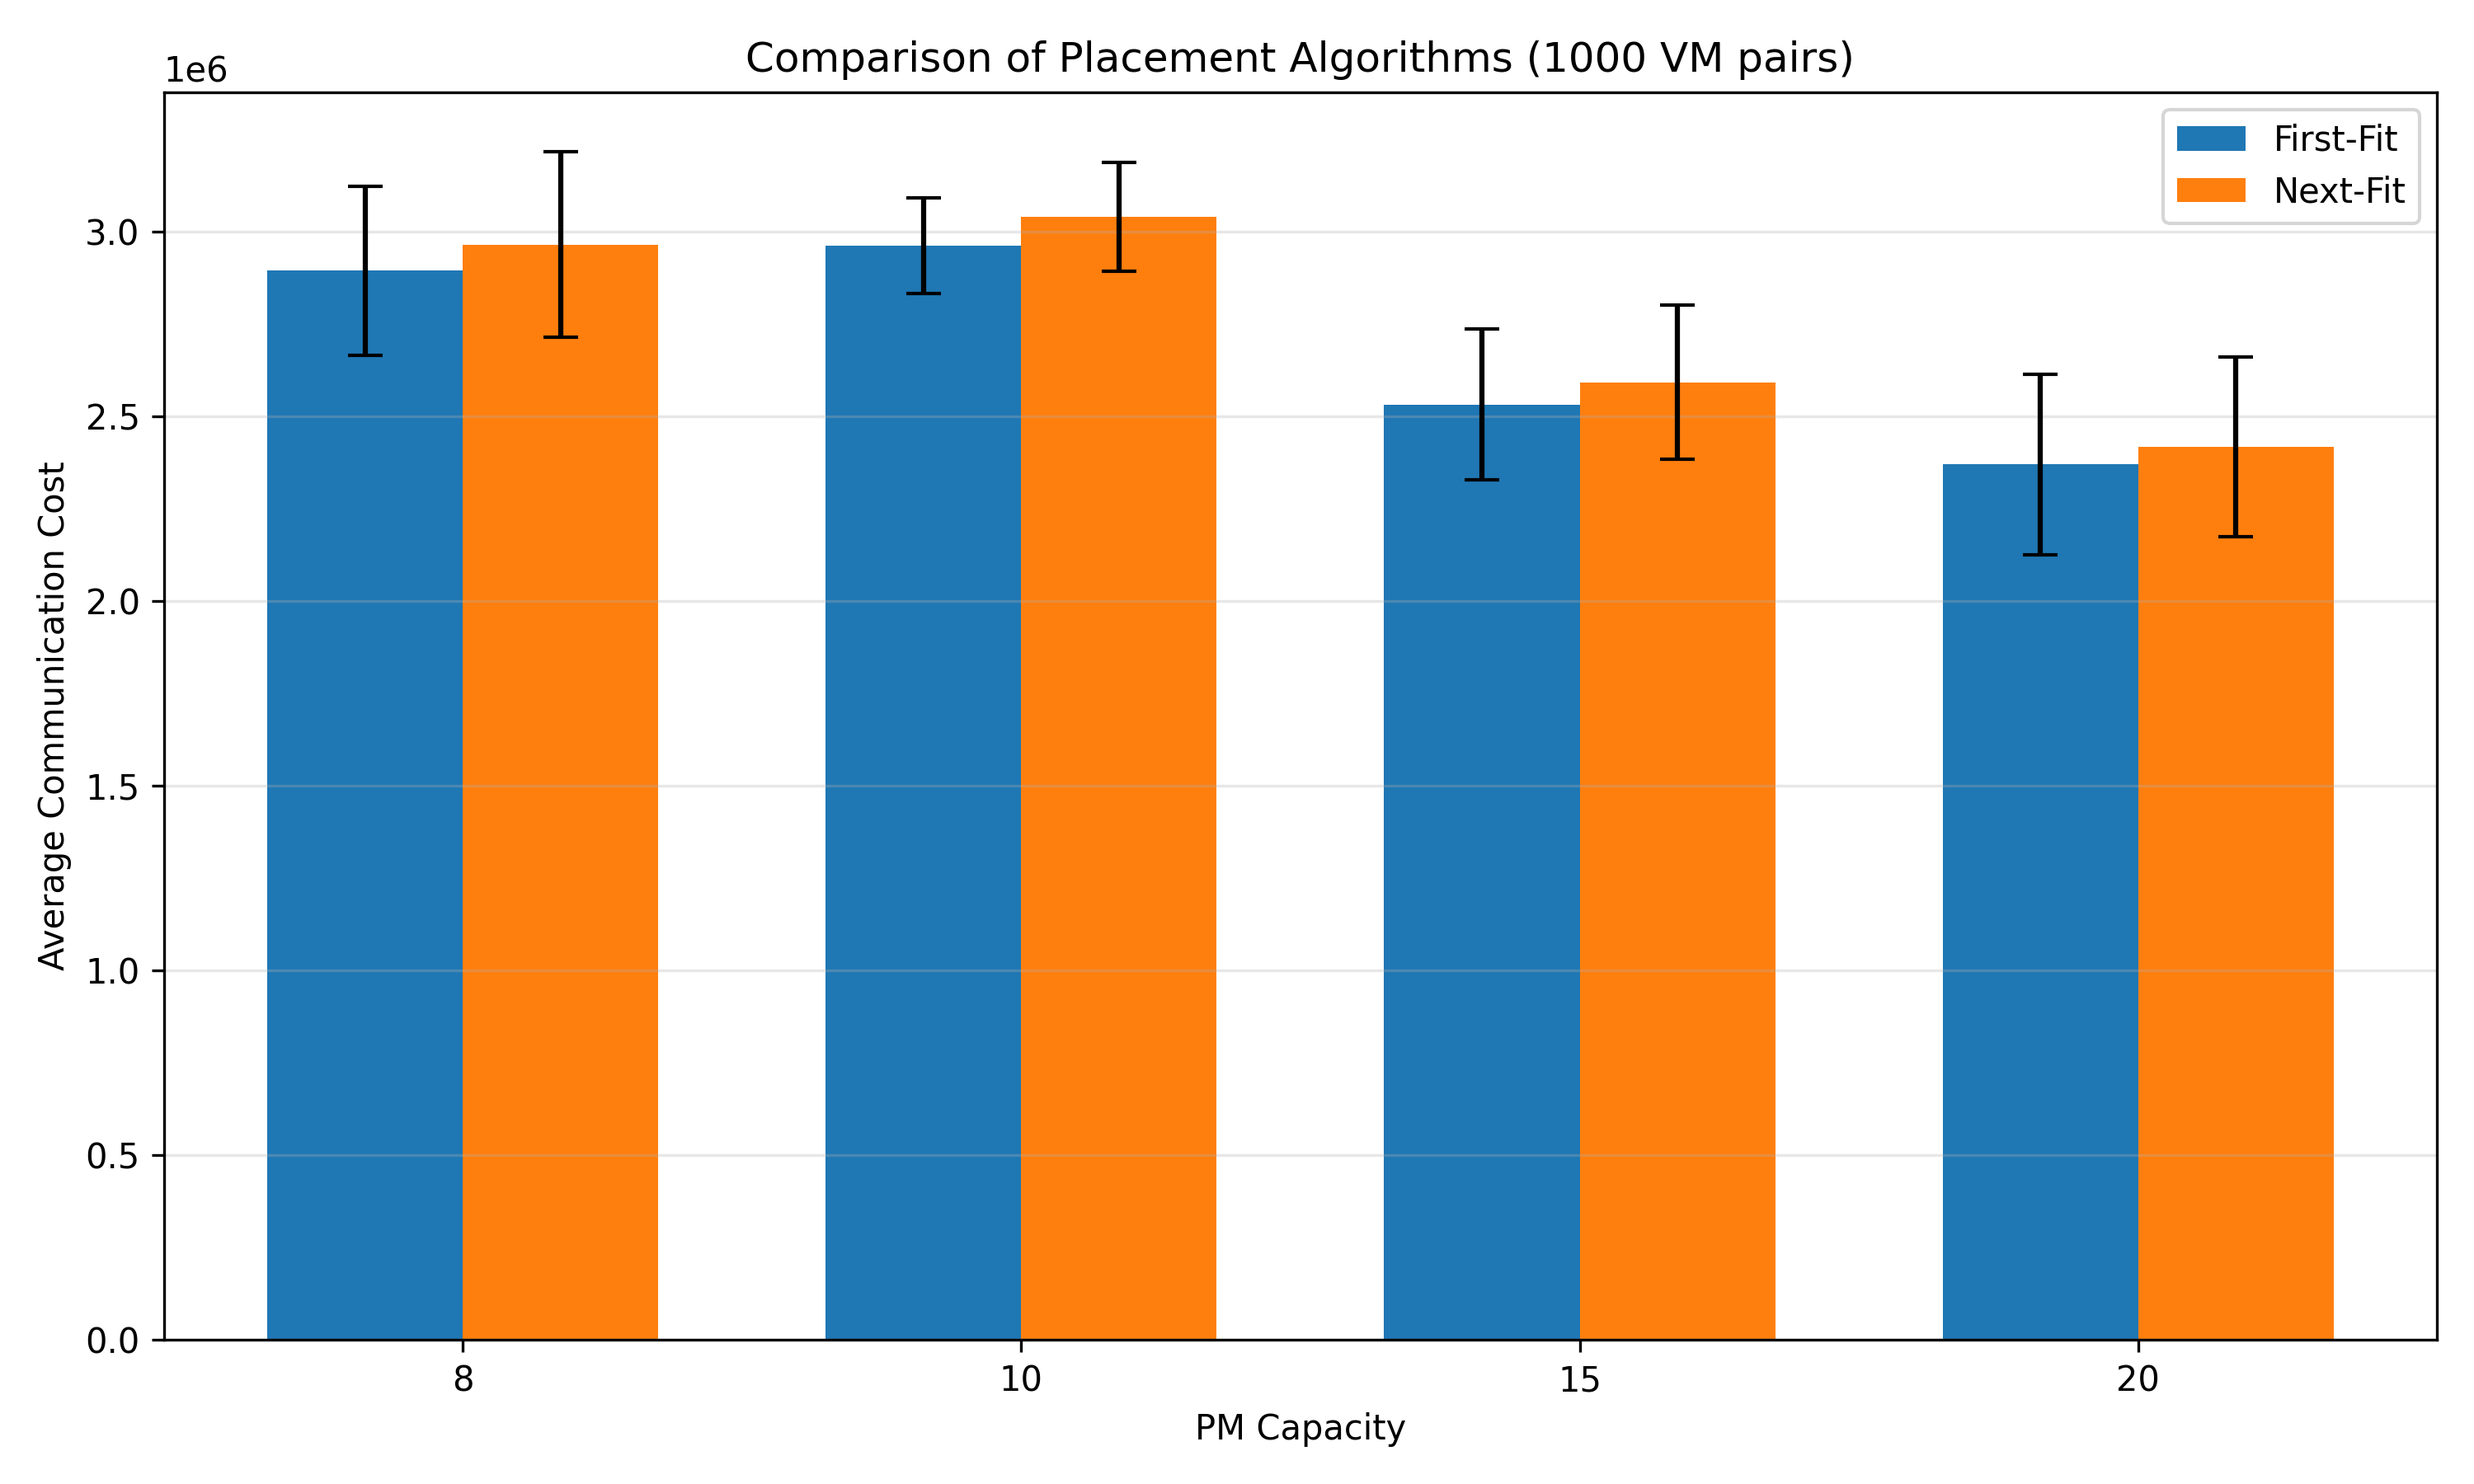
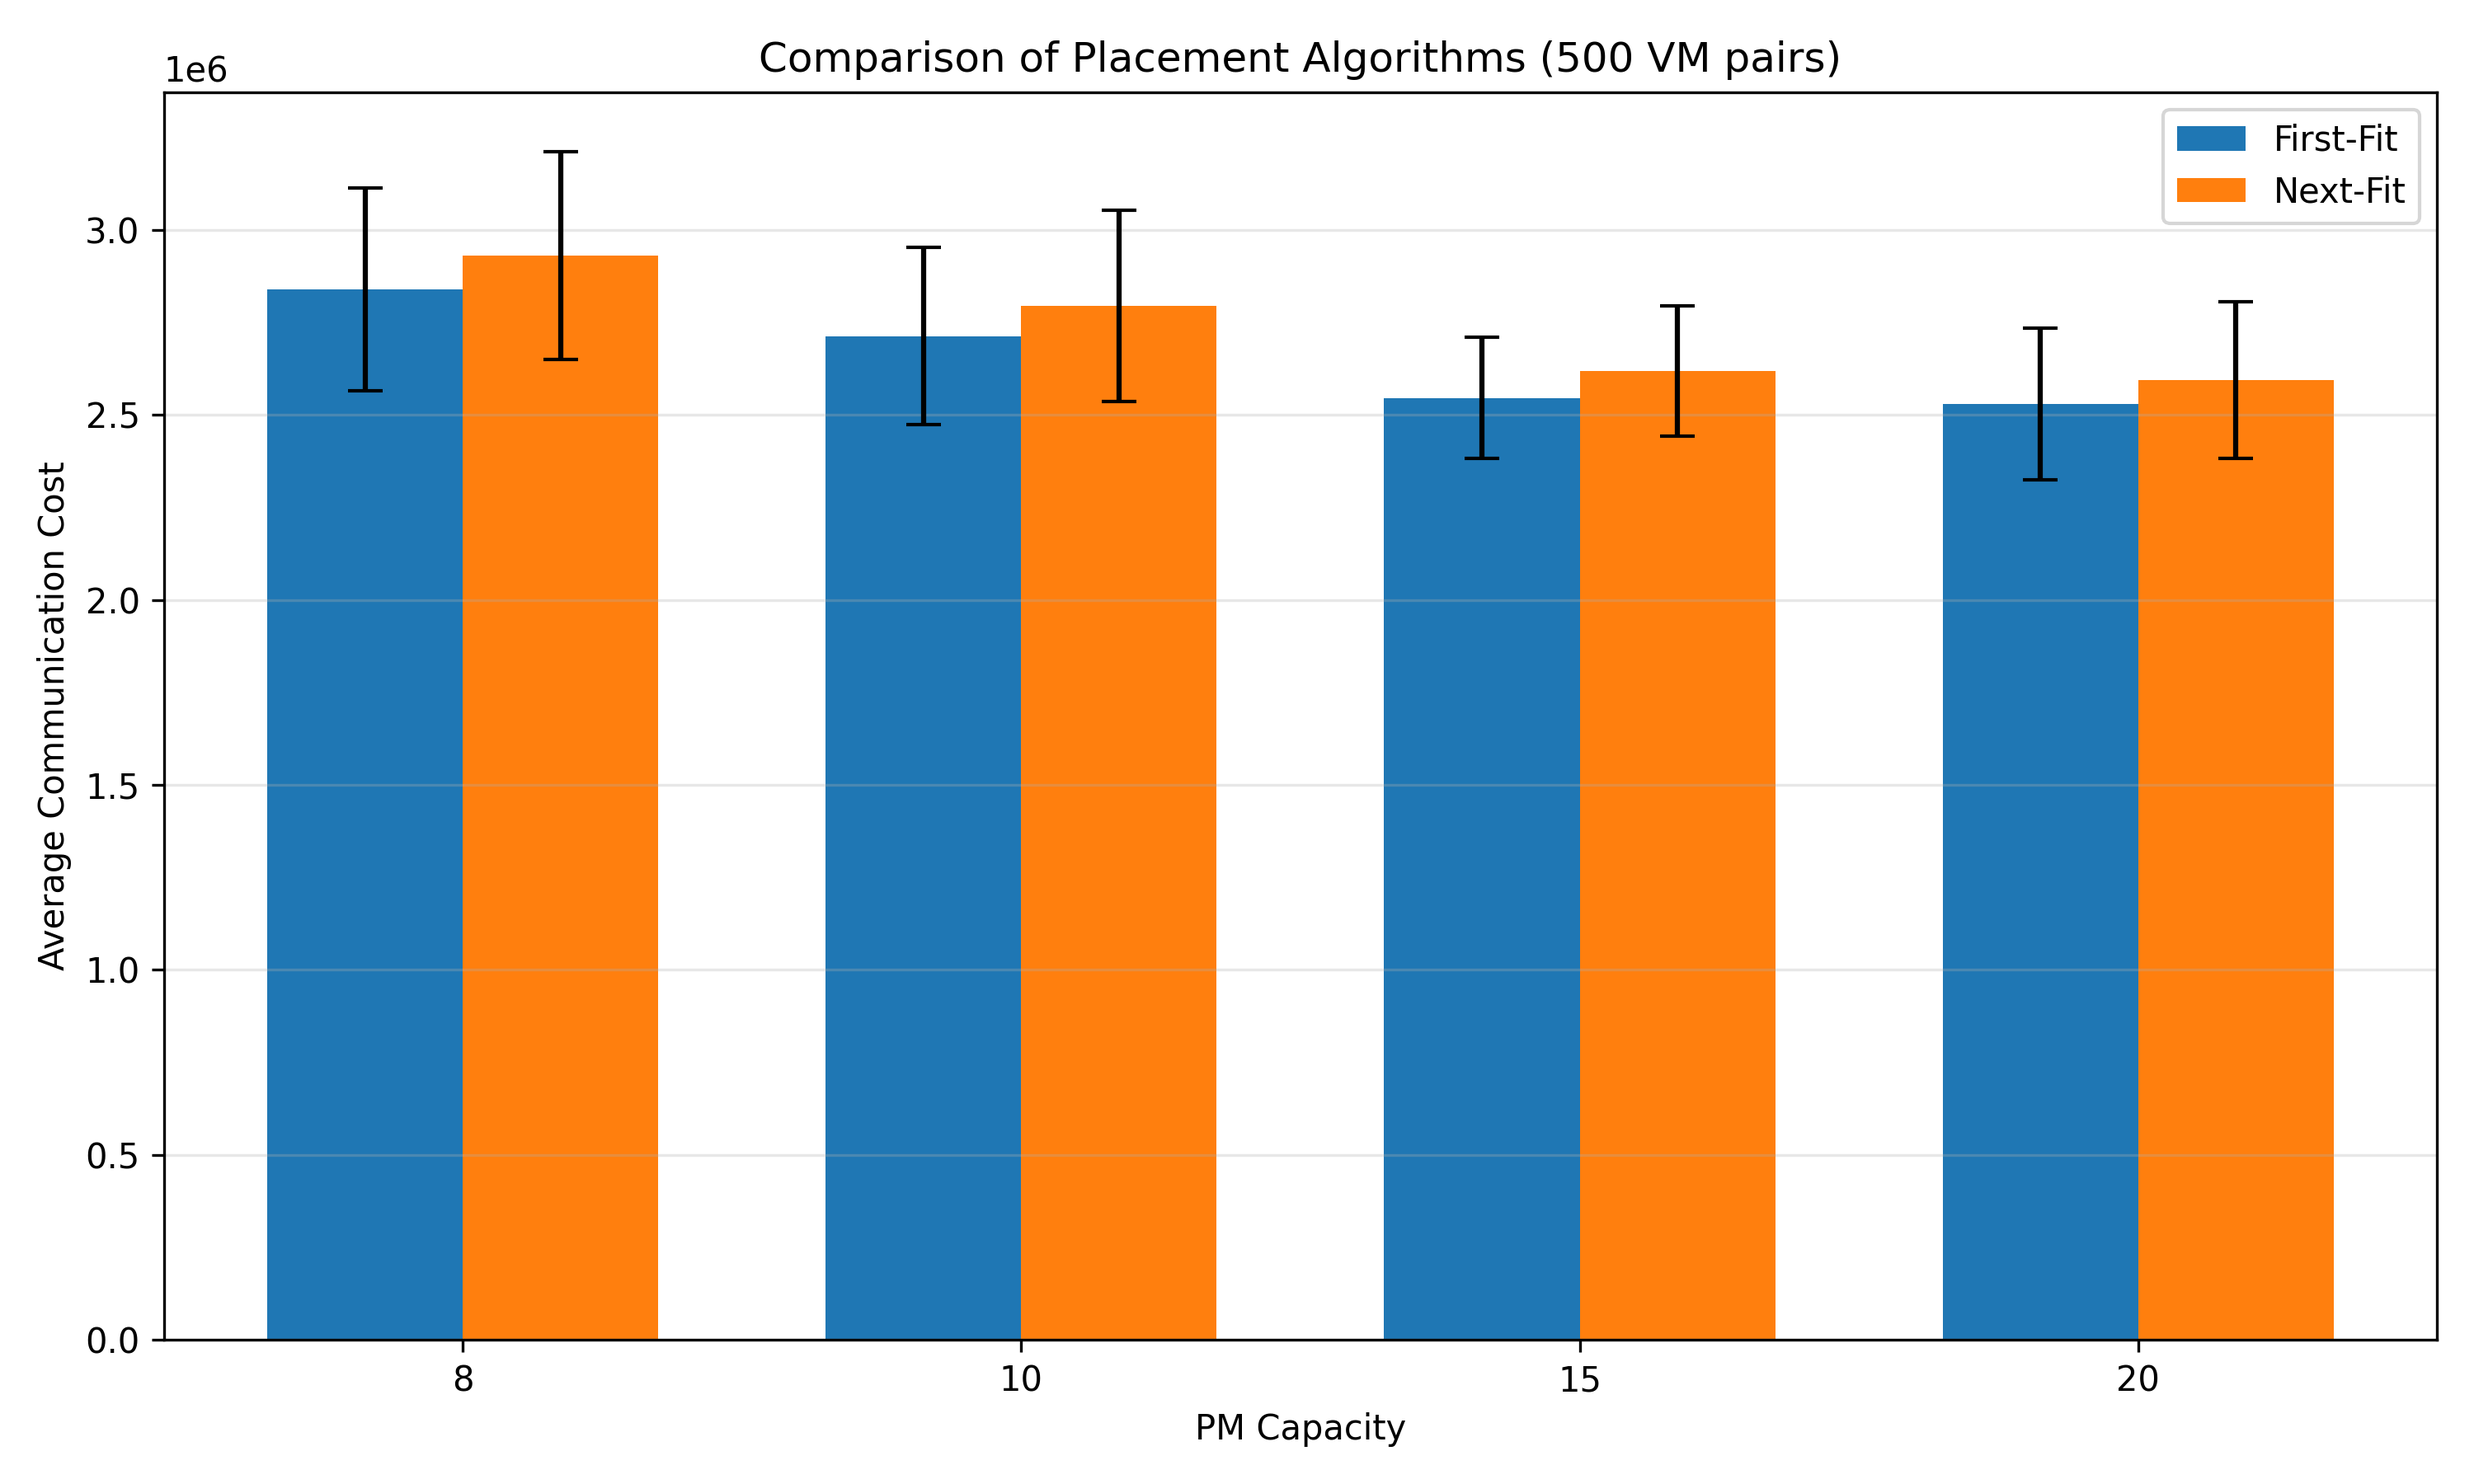
changed plot title

diff --git a/src/app.py b/src/app.py
@@ -110,7 +110,7 @@ class App:
         # Add labels, title, and legend
         ax.set_ylabel('Average Communication Cost')
         ax.set_xlabel('PM Capacity')
-        ax.set_title('Comparison of Placement Algorithms (1000 VM pairs)')
+        ax.set_title('Comparison of Placement Algorithms (500 VM pairs)')
         ax.set_xticks(x)
         ax.set_xticklabels(x_labels)
         ax.legend()
